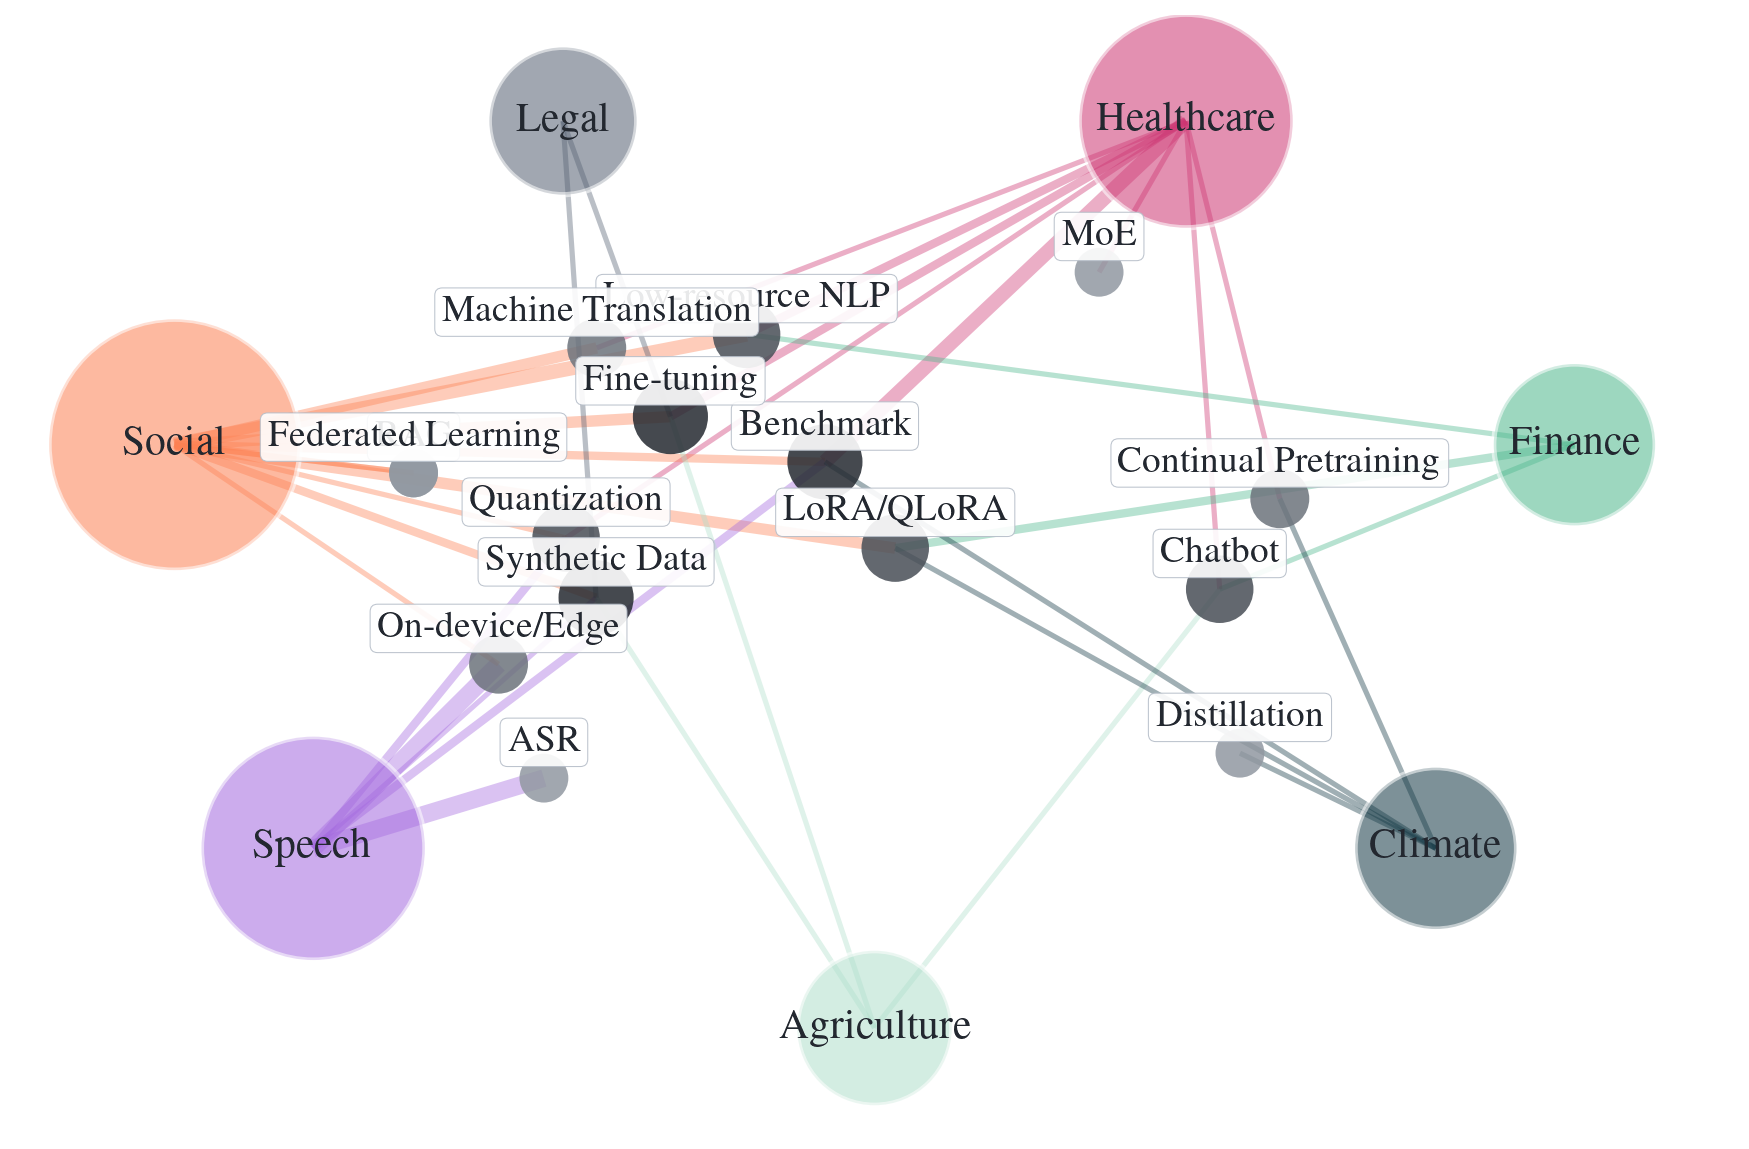
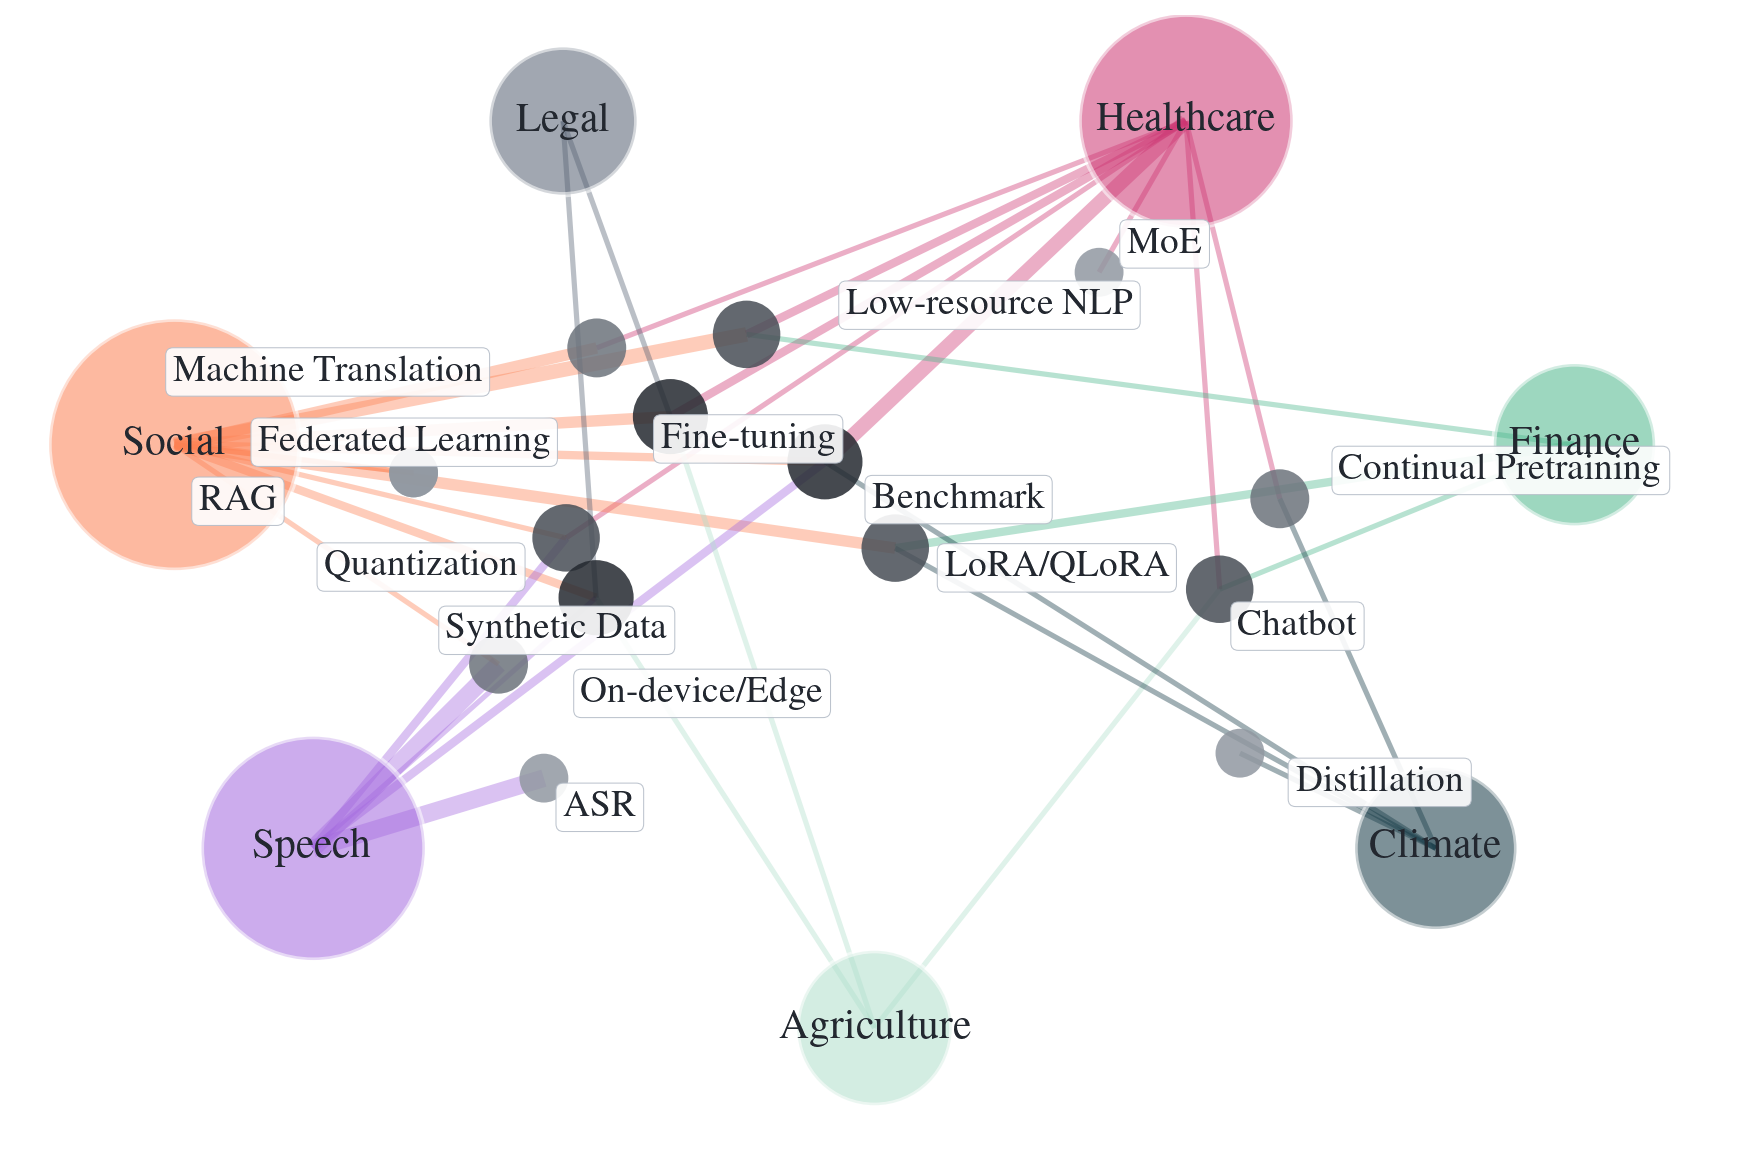
[wip] Update

diff --git a/analysis/deployment_domains.py b/analysis/deployment_domains.py
@@ -6,6 +6,8 @@ import networkx as nx
 import numpy as np
 import pandas as pd
 
+from adjustText import adjust_text
+
 from analysis.utils import COLORS, OUTPUT_DIR, PLOT_PARAMS
 
 CWD = Path(__file__).resolve().parent
@@ -283,15 +285,16 @@ def plot_domain_technique_network(
             zorder=5,
         )
 
-    # Technique labels: boxed labels like the reference image
+    # Technique labels: placed with adjustText to avoid overlaps
+    technique_texts = []
     for technique in technique_nodes:
         x, y = pos[technique]
-        ax.text(
+        t = ax.text(
             x,
-            y + 0.18,
+            y,
             technique,
             ha="center",
-            va="bottom",
+            va="center",
             fontsize=18,
             fontfamily="serif",
             color=COLORS["slate_4"],
@@ -304,6 +307,15 @@ def plot_domain_technique_network(
             ),
             zorder=4,
         )
+        technique_texts.append(t)
+
+    adjust_text(
+        technique_texts,
+        ax=ax,
+        expand=(1.5, 1.5),
+        force_text=(0.5, 0.5),
+        force_points=(0.3, 0.3),
+    )
 
     ax.axis("off")
     margin = 1.0
